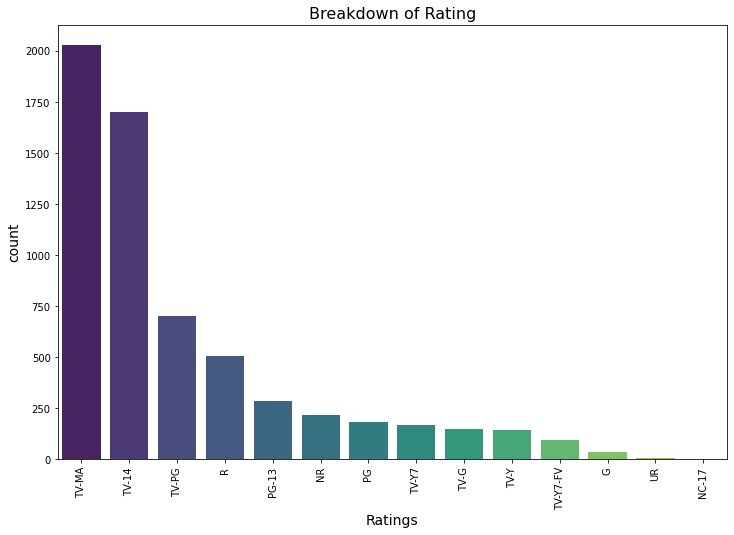
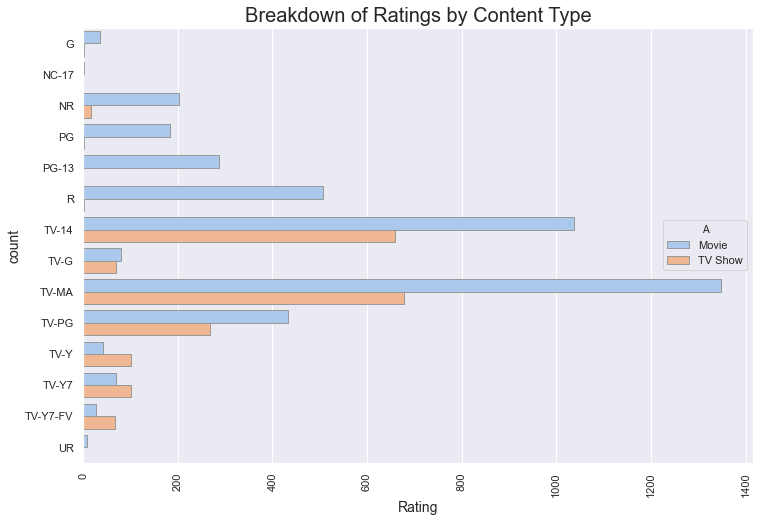
Updating Graphs

diff --git a/Netflix.py b/Netflix.py
@@ -1,8 +1,8 @@
-"""
+'''
 Name:               Karina Jonina 
 Github:             https://github.com/kjonina/
 Data Gathered:      https://www.kaggle.com/shivamb/netflix-shows
-"""
+'''
 
 
 import numpy as np
@@ -15,7 +15,7 @@ from io import StringIO # This is used for fast string concatination
 import nltk # Use nltk for valid words
 import collections as co # Need to make hash 'dictionaries' from nltk for fast processing
 import warnings # current version of seaborn generates a bunch of warnings that we'll ignore
-warnings.filterwarnings("ignore")
+warnings.filterwarnings('ignore')
 import seaborn as sns
 from wordcloud import WordCloud
 from sklearn.feature_extraction.text import CountVectorizer #Bag of Words
@@ -125,6 +125,36 @@ plt.ylabel('count', fontsize = 14)
 plt.xlabel('Ratings', fontsize = 14)
 plt.show()
 
+
+# =============================================================================
+# Examining Ratings by Type
+# =============================================================================
+
+ratings_type = pd.DataFrame({'A': df['type'],
+                   'B': df['rating']})
+
+print(ratings_type)
+
+ratings_type_df_pivot = pd.pivot_table(
+        ratings_type, index = ['A'], columns = ['B'], aggfunc=len)
+
+print(ratings_type_df_pivot)
+
+
+plt.figure(figsize = (12, 8))
+sns.catplot(x = 'A', hue = 'B', kind = 'count', palette = 'pastel', edgecolor = '.6', data = ratings_type)
+plt.title('Breakdown of Ratings by Content Type', fontsize = 16)
+plt.ylabel('count', fontsize = 14)
+plt.xlabel('Rating', fontsize = 14)
+
+
+plt.figure(figsize = (12, 8))
+sns.countplot(y = 'B', hue = 'A', palette = 'pastel', edgecolor = '.6', data = ratings_type)
+plt.title('Breakdown of Ratings by Content Type', fontsize = 20)
+plt.xticks(rotation = 90)
+plt.ylabel('count', fontsize = 14)
+plt.xlabel('Rating', fontsize = 14)
+
 # =============================================================================
 # Examining type
 # =============================================================================
@@ -172,14 +202,6 @@ plt.ylabel('count', fontsize = 14)
 plt.xlabel('listed_in', fontsize = 14)
 plt.show()
 
-# creates a pie chart 
-fig = plt.figure(figsize = (20,10))
-labels = df['listed_in'].value_counts().head(25).index.tolist()
-sizes = df['listed_in'].value_counts().head(25).tolist()
-plt.pie(sizes, labels = labels, autopct = '%1.1f%%',
-        shadow = False, startangle = 30)
-plt.title('Breakdown of listed_in', fontdict = None, position = [0.48,1], size = 'xx-large')
-plt.show()
 
 
 # =============================================================================
@@ -264,13 +286,13 @@ plt.show()
 # =============================================================================
 
 # new data frame with split value columns 
-new_listed_in= df["listed_in"].str.split(", ", n = 6, expand = True) 
+new_listed_in= df['listed_in'].str.split(', ', n = 6, expand = True) 
 # making separate first listed_in column from new data frame 
-df["first listed_in"]= new_listed_in[0]
+df['first listed_in']= new_listed_in[0]
 # making separate second listed_in column from new data frame 
-df["second listed_in"]= new_listed_in[1] 
+df['second listed_in']= new_listed_in[1] 
 # making separate third listed_in column from new data frame 
-df["third listed_in"]= new_listed_in[2] 
+df['third listed_in']= new_listed_in[2] 
 
 
 '''

diff --git a/README.md b/README.md
@@ -4,14 +4,15 @@ This dataset consists of tv shows and movies available on Netflix as of 2019. Th
 
 # Learning Outcomes
 Following my analysis of my [Netflix Viewing Habits](https://github.com/kjonina/personal_Netflix/blob/main/README.md), I decided to continue my quest to analyse data and update README.md on datasets that I have not yet finished.
-I have a lot of holes in my knowledge
+I have a lot of holes in my knowledge so I decided to outline some learning outcomes for myself:
 
-I am aiming to:
-- [ ] deal with parts of code I struggle with: loc, iloc splitting text data, creating linegraph and horizontal barcharts. 
+The purpose of this analysis for myself is to: 
+- [ ] deal with parts of code I struggle with: loc, iloc splitting text data, creating linegraph and horizontal barcharts, barcharts by a category. 
 - [ ] filter and split data (['Director',  'Cast', 'Genre']
 - [ ] run analysis on ['Title', 'Description']
 - [ ] create a predictive model for Ratings 
-
+- [ ] continue fancy-schmancy code to update README.md such as links to external url and links, etc. 
+- [ ] use GITHUB regularly to update code as I work on this project
 - [ ] Hopefully update it to Kaggle?
 
 ### Variables
@@ -22,18 +23,17 @@ New Variables:
 
 The dataset was also split by **'Movie'** and **'TV_Shows'**
 
-
 ## Exploring EDA
-
-**What are some of the most common TV-Ratings?**
-
-![Ratings](https://github.com/kjonina/Netflix/blob/master/Graphs/Ratings.png)
 
 **What is more commonly found: Movies or TV Shows?**
 
 ![Types](https://github.com/kjonina/Netflix/blob/master/Graphs/Types.png)
 
-![Types](https://github.com/kjonina/Netflix/blob/master/Graphs/Pie_Types.png)
+TV Shows make up over two-thirds of contents on Netflix (68.4% - TV Shows, 31.6% - Movies). 
+
+**What are some of the most common TV-Ratings?**
+
+![Ratings](https://github.com/kjonina/Netflix/blob/master/Graphs/Ratings.png)
 
 **When were the most TV shows/ Movies released?**
 
@@ -42,6 +42,14 @@ The dataset was also split by **'Movie'** and **'TV_Shows'**
 **How new are additions on Netflix?**
 
 ![new_or_old](https://github.com/kjonina/Netflix/blob/master/Graphs/new_or_old.png)
+
+Most content is uploaded onto Netflix within 0 - 2 years of its initial release. Unfortunatly, month of the release_year was not supplied so it is not very accurate representation.
+For Example: a movie could have been release in November and uploaded on Netflix in February, which means the time difference is 4 months, not 1 year.
+
+Furthermore: it is unclear whether the content with 0 years between release_year and year_added is Netflix produced.
+
+One way to found it is to create code to examine that compares contents to Netflix produced. 
+- but that is for later. 
 
 **How long are most movies?**
 ![movie_d](https://github.com/kjonina/Netflix/blob/master/Graphs/movie_d.png)
